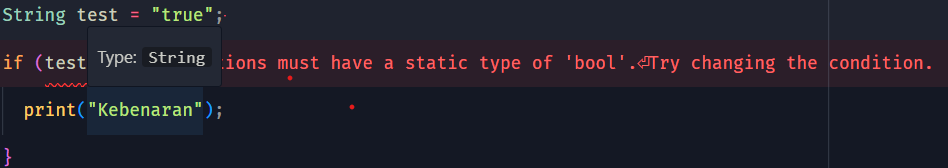
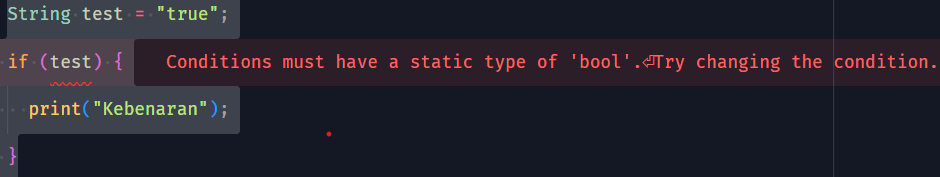
fixing

diff --git a/week-03/src/main.dart b/week-03/src/main.dart
@@ -11,10 +11,10 @@ void main(List<String> args) {
   // }
   // if (test == "test2") print("Test2 again");
   // --> Part 2
-  // String test = "true";
-  // if (test) {
-  //   print("Kebenaran");
-  // }
+  String test = "true";
+  if (test) {
+    print("Kebenaran");
+  }
 
   // ==> PRAKTIKUM 2
   // --> Part 1
